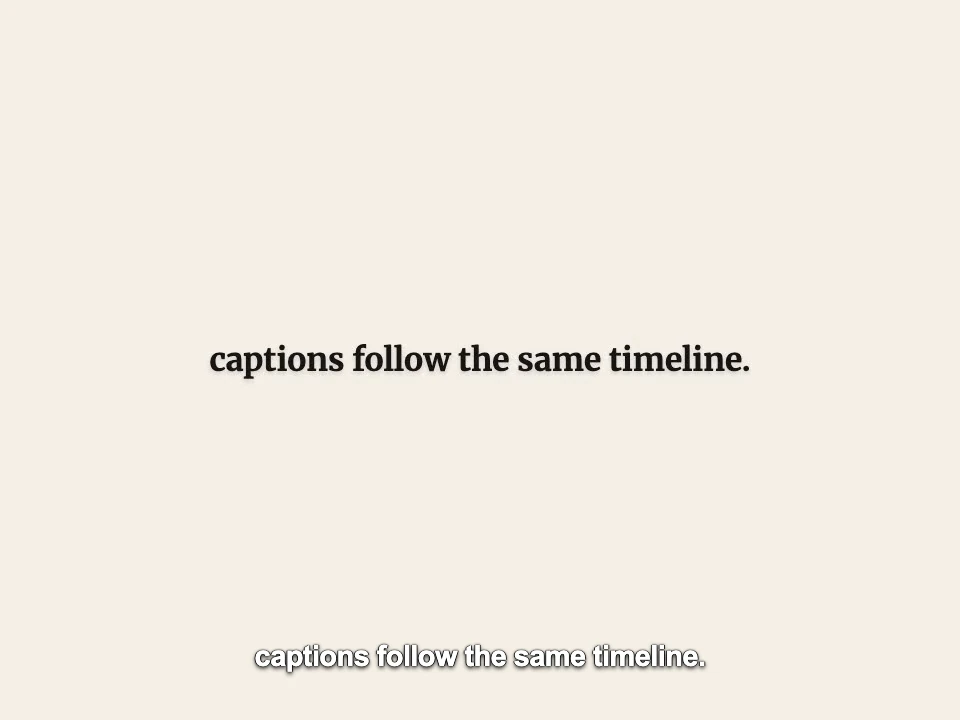
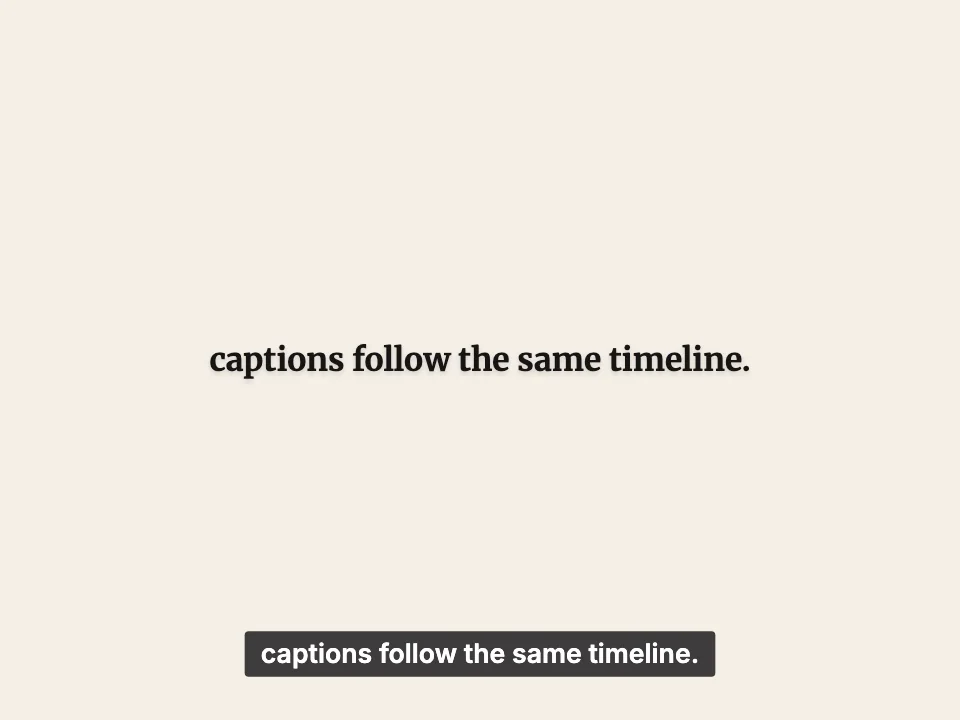
Correct burn-in copy and poster for DOM-composited captions
Burn-in no longer requires libass: captions composite into the capture
DOM at render time, so any ffmpeg build works. Regenerated the poster
from a real --burn-captions render instead of the illustrative mock.

Generated with [Devin](https://devin.ai)

Changed region(s): [[0.25, 0.8556, 0.75, 0.9472]]

diff --git a/apps/web/components/landing/features.tsx b/apps/web/components/landing/features.tsx
@@ -155,8 +155,9 @@ export function Features() {
                 </h3>
                 <p className="mt-5 text-[17px] leading-[1.5] text-[color:var(--landing-muted)]">
                   Add document-level audio with volume, fade, and loop controls. Text scenes generate SRT and VTT
-                  sidecars, with optional burn-in for players that need captions baked into the pixels (burn-in
-                  requires an ffmpeg build with libass).
+                  sidecars, with optional burn-in for players that need captions baked into the pixels — composited
+                  into the frames at render time, so any ffmpeg build works and every script your fonts
+                  cover renders correctly.
                 </p>
                 <div className="mt-6">
                   <CodeLine>!music ./assets/theme.mp3 volume:0.32 fade:0.7s loop:true</CodeLine>
@@ -181,7 +182,7 @@ export function Features() {
                 </div>
                 <ArtifactCaption>
                   <span>playable demo · real AAC audio + generated VTT</span>
-                  <span>poster: burn-in style preview</span>
+                  <span>poster: real burn-in frame</span>
                 </ArtifactCaption>
               </div>
             </article>
